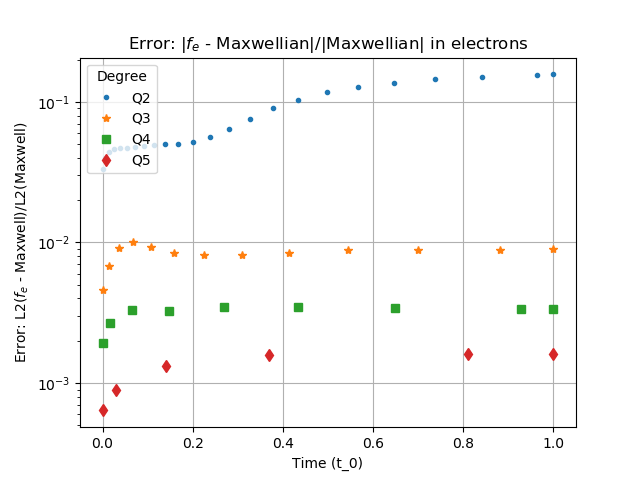
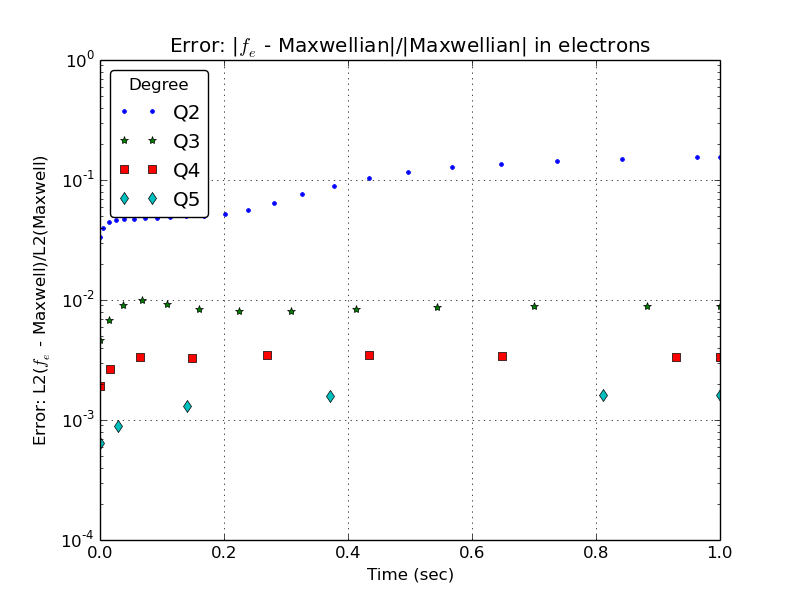
updated doc

diff --git a/src/dm/impls/plex/tutorials/doc/vlasov-landau-ex11.tex b/src/dm/impls/plex/tutorials/doc/vlasov-landau-ex11.tex
@@ -183,7 +183,7 @@ Maxwellians are eigenfunctions of the Landau operator.
 Multiple species with the same thermal temperature are similarly eigenfunctions of the multi-species Landau operator.
 Alas, these discrete finite functions are not eigenvectors of the our discretized operator and, as has been observed by others \cite{Hager2016}, they can not be exactly preserved, however our discretizations do converge to a stable operator.
 We demonstrate this with an electron-deuterium plasma with  $T_i=T_e=4 keV$, the domain and mesh in Figure \ref{fig:grids}. 
-We use $n_0=10^{20}$, $\ n_i = \ n_e = 1$, and run for time $\ t = 1.0$.
+We use $n_0=10^{20}$, $\ n_i = \ n_e = 1$, and run for time $\ t = 1.0$ second ($t_0 = 4.6\times 10^{-5}$).
 We refine in the polynomial degree of the finite elements, using quartic (Q2), cubic (Q3), quartic (Q4) and quintic (Q5) elements.
 
 Figure \ref{fig:stable} shows a L2-norm of the difference between the finite element solution and the exact initial Maxwellian function, normalized with the L2-norm of the Maxwellian, which includes the finite element discretization error.
@@ -272,10 +272,8 @@ $J\left(q_j\right)$ is the element Jacobian at point $q_j$.
 \caption{Pseudo-code to compute Landau Jacobian $\mathbf{C}$ with state $f$}
 \label{fig:algo0}
 \end{algorithm}
-The six loops of Algorithm \ref{fig:algo0} can be processed in just about any
-order, and blocked, giving different data access patterns, which is
+The six loops of Algorithm \ref{fig:algo0} can be processed in many orders, and blocked, giving different data access patterns, which is
 critical in optimizing performance.
-:
 We use one grid for all species, which has advantages and disadvantages \cite{AdamsHirvijokiKnepleyBrownIsaacMills2017}, and results in only one set of cells $G$.
 Our kernel of interest is the construction of the tensor and vector in (\ref{eq:K}) and (\ref{eq:D}).
 To optimized the processing in the kernel we build a flat array(s) of the data required in the kernel ($\bm x$, $w$, $f_{\alpha}$,  $\frac{\partial f_{\alpha}}{\partial \bm x}$,  $f_{\beta}$,  $\frac{\partial f_{\beta}}{\partial \bm x}, ... $) for all integration points ($N = | G | \cdot N_q$).
@@ -283,18 +281,16 @@ To optimized the processing in the kernel we build a flat array(s) of the data r
 Algorithm \ref{fig:algo2} shows the pseudo-code for the CUDA kernel for constructing the Landau collision integral element matrix using standard finite element processes including finite element tabulation at integration points $q_i$, $\mathcal{B}\left(q_i\right),  \mathcal{D}\left(q_i\right)$, and element Jacobian $\mathcal{J}\left(q_i\right)$.
 \begin{algorithm}[h!]
 \begin{algorithmic}[100]
-\STATE{$ N_q = blockDim.x/n\_sub\_blocks$} 
+\STATE{$ N_q \leftarrow blockDim.x$} 
 \STATE{$ my\_elem \leftarrow blockIdx.x $} 
-\STATE{$ my\_qi  \leftarrow  threadIdx.x\%N_q$} 
-\STATE{$ my\_sub\_blk =  threadIdx.x/N_q$}
+\STATE{$ my\_qi  \leftarrow  threadIdx.x$} 
+\STATE{$ my\_sub\_blk =  threadIdx.y$}
 \STATE{$i \leftarrow my\_qi + my\_elem * N_q $} \COMMENT{global integration point for this thread}
 \STATE{$nip  \leftarrow  gridDim.x \cdot N_q $} \COMMENT{global number of integration points}
-\STATE{$sz \leftarrow nip/n\_sub\_blocks \quad + \quad !!nip\%n\_sub\_blocks$} 
+\STATE{$sz \leftarrow nip/n\_sub\_blocks \quad + \quad !!(nip\%n\_sub\_blocks)$} 
 \STATE{$ip\_start \leftarrow my\_sub\_blk*sz$} 
 \STATE{$ip\_end \leftarrow (my\_sub\_blk+1)*sz \quad > \quad nip \quad ? \quad nip \quad : \quad (my\_sub\_blk+1)*sz$} 
-\STATE{$w_i \leftarrow w[i] $}
-\STATE{$N \leftarrow N_q \cdot |G|$}
-\FOR[fuse inner element and quadrature loop]{$j=ip\_start:ip\_end$}
+\FOR[fused inner element and quadrature loop]{$j=ip\_start:ip\_end$}
 \STATE{$\left[\mathbf{U_K}, \mathbf{U_D} \right]  \leftarrow \mathbf{LandauTensor}\left(q_i.r,q_i.z,r[j],z[j]\right)$  }
 \FOR{$\alpha=0:S$}
 \FOR{$\beta=0:S$}
@@ -303,12 +299,10 @@ Algorithm \ref{fig:algo2} shows the pseudo-code for the CUDA kernel for construc
 \ENDFOR
 \ENDFOR
 \ENDFOR
-
 \FOR{$\alpha=0:S$}
 \STATE{$\mathbf{G2}\left[my\_qi  \right] \left[my\_sub\_blk \right] \left[{\alpha}\right]  \leftarrow \mathcal{J}\left(q_i\right)^{-T} \mathbf{K}\left[my\_qi \right]  \left[my\_sub\_blk \right] \left[{\alpha}\right] w[i]$} 
 \STATE{$\mathbf{G3}\left[my\_qi  \right] \left[my\_sub\_blk \right] \left[{\alpha}\right] \leftarrow \mathcal{J}\left(q_i\right)^{-T} \mathbf{D}\left[my\_qi \right]  \left[my\_sub\_blk \right] \left[{\alpha}\right] \mathcal{J}\left(q_i\right)^{-1} w[i]$}
 \ENDFOR
-
 \IF[One sub-block in each integration point sums up sub-blocks]{$my\_sub\_blk = 0$}
 \FOR{$b=1:n\_sub\_blocks$}
 \FOR{$\alpha=0:S$}
@@ -317,26 +311,25 @@ Algorithm \ref{fig:algo2} shows the pseudo-code for the CUDA kernel for construc
 \ENDFOR
 \ENDFOR
 \ENDIF
-\IF[On master thread in each block]{$threadIdx.x = 0$}
+\IF[On master thread in each block]{$threadIdx.x +  threadIdx.y = 0$}
 %\STATE{$\mathbf{ElemMats} \left[blockID\right] \leftarrow 0$} \COMMENT{On master thread in each block}
 \FOR[Project point value to vertices of cell $i$ with standard FE process]{$i=1:N_q$}
-\STATE{$\mathbf{A}\left[my\_elem\right] \leftarrow  \mathbf{A}\left[my\_elem\right]  +  \mathcal{D^T}\left(q_i\right) \mathbf{G3}\left[ i \right]  \mathcal{D}\left(q_i\right)  +  \mathcal{D^T}\left(q_i\right) \mathbf{G2}\left[ i \right]  \mathcal{B}\left(q_i\right)$}
+\STATE{$\mathbf{A}\left[my\_elem\right] \leftarrow  \mathbf{A}\left[my\_elem\right]  +  \mathcal{D^T}\left(q_i\right) \mathbf{G3}\left[ i \right]  \left[ 0 \right]  \left[ : \right]  \mathcal{D}\left(q_i\right)  +  \mathcal{D^T}\left(q_i\right) \mathbf{G2}\left[ i \right]  \left[ 0 \right]  \left[ : \right]  \mathcal{B}\left(q_i\right)$}
 \ENDFOR
 \ENDIF
 %\FORALL[CPU: Assemble element matrices into global Jacobian]{cells $c \in G$}
 %\STATE{$\mathbf{C} \leftarrow \mathbf{C} + GlobalAssemble\left(c, \mathbf{ElemMats}\left[c\right]  \right)$}
 %\ENDFOR
 \end{algorithmic} 
-\caption{CUDA kernel; input: $r$, $z$, $w$, $f$, $df$ and $n\_sub\_blocks$;
+\caption{CUDA kernel; input: $r$, $z$, $w$, $f$, $df$;
   output: element matrix $\mathbf{A}$ }
 \label{fig:algo2}
 \end{algorithm}
-One element is placed in each thread block and there are $N_q$ threads per block.
+One element is placed in each CUDA thread block and there is a 2D array of threads $(N_q, number\_sub\_threads)$ per block, with $number\_sub\_threads$ being  a runtime parameter for the number of threads to use within each integration point.
 These element matrices are then assembled on the CPU into the global Jacobian.
 %This algorithm is designed to minimized data movement by computing the Landau tensors on the fly, they can be precomputed, and it exploits a single mesh by hoisting the tensor kernel outside of the two inner loops over species.
-This algorithm puts the Landau tensor, some of the $\Order{S^2}$ complexity terms, then inner finite element integral and the Jacobian coordinate transformation into a fully parallel kernel GPU kernel.
-The finite element projection to vertices, from each integration point, is processed on one thread in each thread block.
-This phase could be processed on each thread, however a copy of the element stiffness matrix would be required for each thread in GPU shared memory and there is not enough memory available with large number of species and high order elements.
+This loop ordering puts the Landau tensor, some of the $\Order{S^2}$ complexity terms, the inner finite element integral and the Jacobian coordinate transformation into a GPU kernel.
+A summation of the each threads $G2$ and $G2$ is accumulated by one thread at each integration point and the finite element projection to vertices, from each integration point, is processed by one thread in each thread block.
 
 Algorithm \ref{fig:algos}
 shows the initialization of the vectors $r$, $z$, $w$, $f$, and the
@@ -361,35 +354,21 @@ Each quadrature point $q_i$ has a 2D coordinate ($q_i.r$,$q_i.z$).
 \label{fig:algos}
 \end{algorithm}
 
-
 \section{Performance}
-We conduct a numerical experiment on a node with 2 IBM POWER9 CPUs and 6 Nvidia Tesla GPUs / node, using 6 MPI processes, each running the same test with one GPU.
-The test problem is similar to the problems used for verification, with 140 cells, Q4 elements (3,500 integration points).
-Table \ref{tab:perf} show the time for the construction of the Jacobian matrix, the GPU kernel, and the CPU matrix assemble.
-% Requires the booktabs if the memoir class is not being used
-\begin{table}[!h]
-   \centering
-   %\topcaption{Table captions are better up top} % requires the topcapt package
-   \begin{tabular}{@{} lccc @{}} % Column formatting, @{} suppresses leading/trailing space
-      \toprule
-%      \multicolumn{2}{c}{Item} \\
-%      \cmidrule(r){1-2} % Partial rule. (r) trims the line a little bit on the right; (l) & (lr) also possible
-      \# species & Total & GPU kernel  & matrix assembly (CPU) \\
-      \midrule
-      1  &  18 &  12 & 3.4 \\
-      2  & 40 &   22 &  14 \\
-      3  &  72 &  33 &  33 \\
-      4  & 118 &   48   & 60 \\
-      5  & 170  &   59  &  98 \\
-     \bottomrule
-   \end{tabular}
-   \caption{Times (msec) for Landau Jacobian construction.}
-   \label{tab:perf}
-\end{table}
+We use a node with 2 IBM POWER9 sockets and 6 Nvidia Tesla V100 GPUs / node, using 1 MPI process with one GPU.
+This test problem is similar to the problems used for verification, with 62 cells, Q3 elements (992 integration points).
+Figure \ref{fig:perf} show the time for the construction of the Jacobian matrix, the GPU kernel, and the CPU matrix assemble and solve.
+\begin{figure}[htbp]
+\begin{center}
+\includegraphics[width=.6\linewidth]{./PPT/landau_time_species.png}
+\caption{Times (sec) for Landau Jacobian construction.}
+\label{fig:perf}
+\end{center}
+\end{figure}
 We observe that the times increase linearly with number of species, in the GPU kernel, however the serial matrix assemble times increase quadratically.
 The matrix assembly has not been parallelized.
 One can color elements and assemble them in parallel, or use a local domain decomposition and use standard parallel assembly methods.
-If we assume that we can color a 2D block structured AMR grid with 8 colors, which is probably pessimistic, then we could expect a speed up of over 15 for this problem with 140 cells.
+If we assume that we can color a 2D block structured AMR grid with 8 colors, then we could expect a speed up of about 8 for this problem with 62 cells.
 This should be enough to keep the matrix assembly subdominant.
 
 \section{Seed runaway electron generation}

diff --git a/src/dm/impls/plex/tutorials/doc/plot.py b/src/dm/impls/plex/tutorials/doc/plot.py
@@ -14,7 +14,7 @@ q5 = np.loadtxt("error.Q5.txt")
 #fig.suptitle('Error with stable initial conditions')
 plt.close()
 plt.ylabel('Error: L2($f_e$ - Maxwell)/L2(Maxwell)')
-plt.xlabel('Time (t_0)')
+plt.xlabel('Time (sec)')
 plt.title('Error: |$f_e$ - Maxwellian|/|Maxwellian| in electrons')
 #ticks = np.arange(.01, .1, 2)
 #ticklabels = [r"$10^{}$".format(tick) for tick in ticks]
@@ -31,7 +31,7 @@ plt.legend(ncol=1,loc="upper left", shadow=False, fancybox=True,title="Degree")
 plt.savefig('e_L2error.png')
 plt.close()
 plt.ylabel('Error: L2($f_e$ - Maxwell)/L2(Maxwell)')
-plt.xlabel('Time (t_0)')
+plt.xlabel('Time (sec)')
 plt.title('Error: |$f_e$ - Maxwellian|/|Maxwellian| in ions')
 #plt.axis([0, 900, 60, 100])
 plt.semilogy(q2[:,0],q2[:,2],'.',label="Q2")
